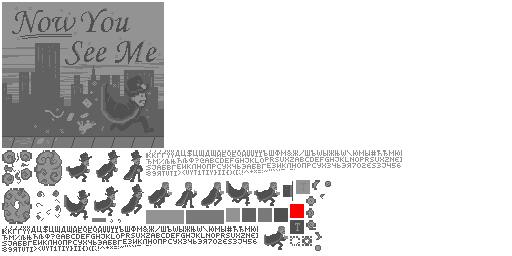
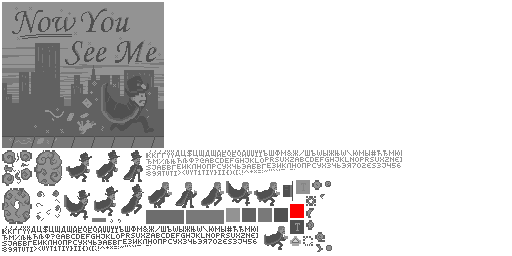
Added chest and interactables. Refs #27, #23,  Closes #14, 20

Changed region(s): [[0.5625, 0.875, 0.6562, 1.0], [0.2812, 0.8125, 0.375, 0.875], [0.5938, 0.7188, 0.625, 0.8438]]

diff --git a/Assets/Resources/Scripts/Player/Player.cs b/Assets/Resources/Scripts/Player/Player.cs
@@ -14,7 +14,8 @@ public class Player : FContainer
         IDLE,
         MARKING,
         VANISHING,
-        COOLDOWN
+        COOLDOWN,
+        SPAWNING
     }
     FAnimatedSprite playerSprite;
     private State currentState = State.IDLE;
@@ -53,7 +54,7 @@ public class Player : FContainer
         panacheCounter = new GUICounter();
 
     }
-
+    #region GUI Stuff
     public float getVelocityAngle()
     {
         if (xMove == 0 && yMove == 0)
@@ -62,12 +63,27 @@ public class Player : FContainer
             return Mathf.Atan2(-yMove, xMove) * 180.0f / Mathf.PI;
     }
 
+    public float GetVanishPercent()
+    {
+        switch (currentState)
+        {
+            case State.MARKING: return hasLeftMarkPos ? 1 - stateCount / MARK_MAX_COUNT : 1;
+            case State.VANISHING: return 0;
+            case State.COOLDOWN: return stateCount / HAT_RETURN_COUNT;
+            default: return 1.0f;
+        }
+    }
+    #endregion
+
     public override void HandleAddedToStage()
     {
         Futile.instance.SignalFixedUpdate += Update;
         Futile.instance.SignalUpdate += ControlUpdate;
         base.HandleAddedToStage();
     }
+
+
+    #region Mark/Vanish Stuff
     private void Mark()
     {
         this.container.AddChild(hat);
@@ -121,6 +137,51 @@ public class Player : FContainer
         hat.disappear();
         currentState = State.IDLE;
     }
+    #endregion
+
+    private Chest activatedChest;
+    public void activateChest(Chest chest)
+    {
+        if (activatedChest != null)
+            activatedChest.deactivate();
+        chest.activate();
+        activatedChest = chest;
+    }
+
+    public void respawn()
+    {
+        VanishCloud cloud = new VanishCloud();
+        cloud.SetPosition(this.GetPosition());
+        this.container.AddChild(cloud);
+        this.isVisible = false;
+
+        currentState = State.VANISHING;
+        Go.to(this, VANISH_DURATION * 2, new TweenConfig().floatProp("x", activatedChest.x).floatProp("y", activatedChest.y).setEaseType(EaseType.CircInOut).onComplete((a) => { currentState = State.SPAWNING; activatedChest.spawnPlayer(); }));        
+    }
+
+    public void spawn()
+    {
+        currentState = State.SPAWNING;
+        if (activatedChest != null)
+        {
+            this.x = activatedChest.x;
+            this.y = activatedChest.y;
+            this.isVisible = false;
+            activatedChest.spawnPlayer();
+        }
+        else
+            throw new Exception("No Activated Chest");
+    }
+
+    private InteractableObject currentInteractable;
+    public void setInteractObject(InteractableObject o)
+    {
+        currentInteractable = o;
+    }
+    public void clearInteractable()
+    {
+        currentInteractable = null;
+    }
 
     public void addCash(int amount)
     {
@@ -145,6 +206,8 @@ public class Player : FContainer
 
         lastState = currentState;
 
+        if (Input.GetKeyDown(KeyCode.T))
+            respawn();
         if (Input.GetKeyDown(KeyCode.C))
             addCash(100);
         if (Input.GetKeyDown(KeyCode.P))
@@ -173,12 +236,15 @@ public class Player : FContainer
                     }
                 break;
             case State.VANISHING:
+            case State.SPAWNING:
                 return;     //Don't allow controls past this if vanishing
             case State.COOLDOWN:
                 if (stateCount > HAT_RETURN_COUNT)
                     currentState = State.IDLE;
                 break;
         }
+        if (Input.GetKeyDown(C.UP_KEY) && currentInteractable != null)
+            currentInteractable.interact(this);
         if (downJumpCount > 0)
             downJumpCount = Math.Max(0, downJumpCount - Time.deltaTime);
         if (Input.GetKeyDown(C.JUMP_KEY) && jumpsLeft > 0)
@@ -191,19 +257,9 @@ public class Player : FContainer
         stateCount += Time.deltaTime;
     }
 
+
     float downJumpCount = 0;
     const float DOWN_JUMP_TIME = .4f;       //Time to allow a down jump
-
-    public float GetVanishPercent()
-    {
-        switch (currentState)
-        {
-            case State.MARKING: return hasLeftMarkPos ? 1 - stateCount / MARK_MAX_COUNT : 1;
-            case State.VANISHING: return 0;
-            case State.COOLDOWN: return stateCount / HAT_RETURN_COUNT;
-            default: return 1.0f;
-        }
-    }
 
     float speed = .1f;
     float airSpeed = .1f;
@@ -225,6 +281,15 @@ public class Player : FContainer
         float xAcc = 0;
         if (currentState == State.VANISHING)
             return;
+        if (currentState == State.SPAWNING)
+        {
+            if(!C.isSpawning)
+            {
+                currentState = State.IDLE;
+                this.isVisible = true;
+            }
+            return;
+        }
         if (Input.GetKey(C.LEFT_KEY))
         {
             xAcc = isGrounded ? -speed : -airSpeed;

diff --git a/Assets/Resources/Scripts/World.cs b/Assets/Resources/Scripts/World.cs
@@ -11,6 +11,7 @@ public class World : FContainer
 
     public FTilemap collision;
     public List<Trampoline> trampolineList = new List<Trampoline>();
+    public List<InteractableObject> interactObjectList = new List<InteractableObject>();
 
     private FContainer bgLayer = new FContainer();
     private FContainer objectLayer = new FContainer();
@@ -19,12 +20,13 @@ public class World : FContainer
 
     public World()
     {
-
+        Futile.instance.SignalUpdate += Update;
     }
 
     public void LoadMap(string mapName)
     {
         trampolineList.Clear();
+        interactObjectList.Clear();
         player = new Player(this);
         map = new FTmxMap();
         map.clipNode = C.getCameraInstance();
@@ -37,14 +39,11 @@ public class World : FContainer
             {
                 switch (node.attributes["name"].ToLower())
                 {
-                    case "spawn":
-                        player.x = float.Parse(node.attributes["x"]) + float.Parse(node.attributes["width"]) / 2;
-                        player.y = -(float.Parse(node.attributes["y"])) + float.Parse(node.attributes["height"]) / 2;
-                        break;
                     case "trampoline":
-                        Trampoline trampoline = new Trampoline(new Vector2(float.Parse(node.attributes["x"]) + map.tileWidth / 2, - float.Parse(node.attributes["y"]) + map.tileHeight / 2));
-                        trampolineList.Add(trampoline);
-                        objectLayer.AddChild(trampoline);
+                        parseTrampoline(node);
+                        break;
+                    case "chest":
+                        parseChest(node);
                         break;
                 }
             }
@@ -61,7 +60,40 @@ public class World : FContainer
         this.AddChild(objectLayer);
         this.AddChild(playerLayer);
         this.AddChild(fgLayer);
+        player.spawn();
 
+    }
+
+    private void parseTrampoline(XMLNode node)
+    {
+        Trampoline trampoline = new Trampoline(new Vector2(float.Parse(node.attributes["x"]) + map.tileWidth / 2, -float.Parse(node.attributes["y"]) + map.tileHeight / 2));
+        trampolineList.Add(trampoline);
+        objectLayer.AddChild(trampoline);
+    }
+
+    Chest spawnChest;
+    private void parseChest(XMLNode node)
+    {
+        Chest chest = new Chest(new Vector2(float.Parse(node.attributes["x"]) + map.tileWidth / 2, -float.Parse(node.attributes["y"]) + map.tileHeight / 2));
+        if (node.children.Count > 0)
+            foreach (XMLNode property in ((XMLNode)node.children[0]).children)
+            {
+                if (property.attributes.ContainsKey("name"))
+                    switch (property.attributes["name"].ToLower())
+                    {
+                        case "spawn":
+                            if (bool.Parse(property.attributes["value"]))
+                            {
+                                player.x = chest.x;
+                                player.y = chest.y;
+                                player.activateChest(chest);
+                                spawnChest = chest;
+                            }
+                            break;
+                    }
+            }
+        interactObjectList.Add(chest);
+        objectLayer.AddChild(chest);
     }
 
     public bool getMoveable(float xPos, float yPos)
@@ -74,5 +106,12 @@ public class World : FContainer
     {
         int frameNum = collision.getFrameNumAt(xPos, yPos);
         return frameNum == 2;
+    }
+
+    private void Update()
+    {
+        for (int x = 0; x < interactObjectList.Count; x++)
+            if (interactObjectList[x].checkInteractDist(player))
+                break;
     }
 }

diff --git a/Assets/Resources/Scripts/Objects/Chest.cs b/Assets/Resources/Scripts/Objects/Chest.cs
@@ -1,0 +1,68 @@
+using System;
+using System.Collections.Generic;
+using System.Linq;
+using System.Text;
+using UnityEngine;
+
+public class Chest : InteractableObject
+{
+    FAnimatedSprite chestSprite;
+
+    public Chest(Vector2 pos) : base()
+    {
+        this.SetPosition(pos);
+        chestSprite = new FAnimatedSprite("MagicChest/magicChest");
+        chestSprite.addAnimation(new FAnimation("inactive", new int[] { 1 }, 100, false));
+        chestSprite.addAnimation(new FAnimation("active", new int[] { 2 }, 100, false));
+        chestSprite.addAnimation(new FAnimation("spawnPlayer", new int[] { 1,2,1,2,1,2,1 }, 100, false));
+        this.AddChild(chestSprite);
+    }
+
+    public void deactivate()
+    {
+        interactable = true;
+        chestSprite.play("inactive", true);
+    }
+
+    public void activate()
+    {
+        interactable = false;
+        chestSprite.play("active", true);
+    }
+
+    public void spawnPlayer()
+    {
+        C.isSpawning = true;
+        Futile.instance.SignalUpdate += Update;
+        chestSprite.play("spawnPlayer", true);
+    }
+
+    private void Update()
+    {
+        if (chestSprite.IsStopped)
+        {
+            C.isSpawning = false;
+            chestSprite.play("active", true);
+            Futile.instance.SignalUpdate -= Update;
+        }
+    }
+    float particleXSpeed = 30;
+    float particleYSpeed = 30;
+    int numParticles = 20;
+
+    float particleDist = 15;
+    public override void interact(Player p)
+    {
+        p.activateChest(this);
+        for (int x = 0; x < numParticles; x++)
+        {
+            VanishParticle particle = VanishParticle.getParticle();
+            float angle = (RXRandom.Float() * Mathf.PI * 2);
+            Vector2 pos = this.GetPosition() + new Vector2(Mathf.Cos(angle) * particleDist, Mathf.Sin(angle) * particleDist);
+            particle.activate(pos, new Vector2(RXRandom.Float() * particleXSpeed * 2 - particleXSpeed, RXRandom.Float() * particleYSpeed * 2 - particleYSpeed), Vector2.zero, 360);
+            this.container.AddChild(particle);
+        }
+        base.interact(p);
+    }
+}
+

diff --git a/Assets/Resources/Scripts/Objects/InteractableObject.cs b/Assets/Resources/Scripts/Objects/InteractableObject.cs
@@ -1,0 +1,59 @@
+using System;
+using System.Collections.Generic;
+using System.Linq;
+using System.Text;
+
+public class InteractableObject : FContainer
+{
+    FSprite interactInd;
+    protected float X_INTERACT_DIST = 50;
+    protected float Y_INTERACT_DIST = 10;
+    const float MIN_INTERACT_DIST = 20;
+    const float MIN_INTERACT_DIST_SQR = MIN_INTERACT_DIST * MIN_INTERACT_DIST;
+    const float INDICATOR_Y = 10;
+    const float INDICATOR_BOUNCE = 5;
+    protected bool interactable = true;
+    public InteractableObject()
+    {
+        interactInd = new FSprite("interactIndicator");
+        this.AddChild(interactInd);
+        interactInd.isVisible = false;
+    }
+
+    public bool checkInteractDist(Player p)
+    {
+        if (!interactable)
+            return false;
+        if (x - X_INTERACT_DIST < p.x &&
+            x + X_INTERACT_DIST > p.x &&
+            y - Y_INTERACT_DIST < p.y &&
+            y + Y_INTERACT_DIST > p.y)
+        {
+            if (!interactInd.isVisible)
+            {
+                interactInd.isVisible = true;
+                interactInd.y =INDICATOR_Y;
+                Go.to(interactInd, 1.0f, new TweenConfig().floatProp("y", INDICATOR_BOUNCE, true).setIterations(-1, LoopType.PingPong).setEaseType(EaseType.QuadOut));
+            }
+            interactInd.x = (p.x - this.x) / 2;
+            p.setInteractObject(this);
+            return true;
+        }
+        else
+        {
+            if (interactInd.isVisible)
+            {
+                Go.killAllTweensWithTarget(interactInd);
+                interactInd.isVisible = false;
+            }
+            return false;
+        }
+    }
+
+    public virtual void interact(Player p)
+    {
+        interactInd.isVisible = false;
+        Go.killAllTweensWithTarget(interactInd);
+    }
+}
+

diff --git a/Assets/Resources/Scripts/C.cs b/Assets/Resources/Scripts/C.cs
@@ -8,6 +8,8 @@ public class C
 {
     public const string versionNumber = "v0.1.21";
 
+    public static bool isSpawning = false;
+
     private static PlayerGUI cameraInstance;
     public static PlayerGUI getCameraInstance()
     {
